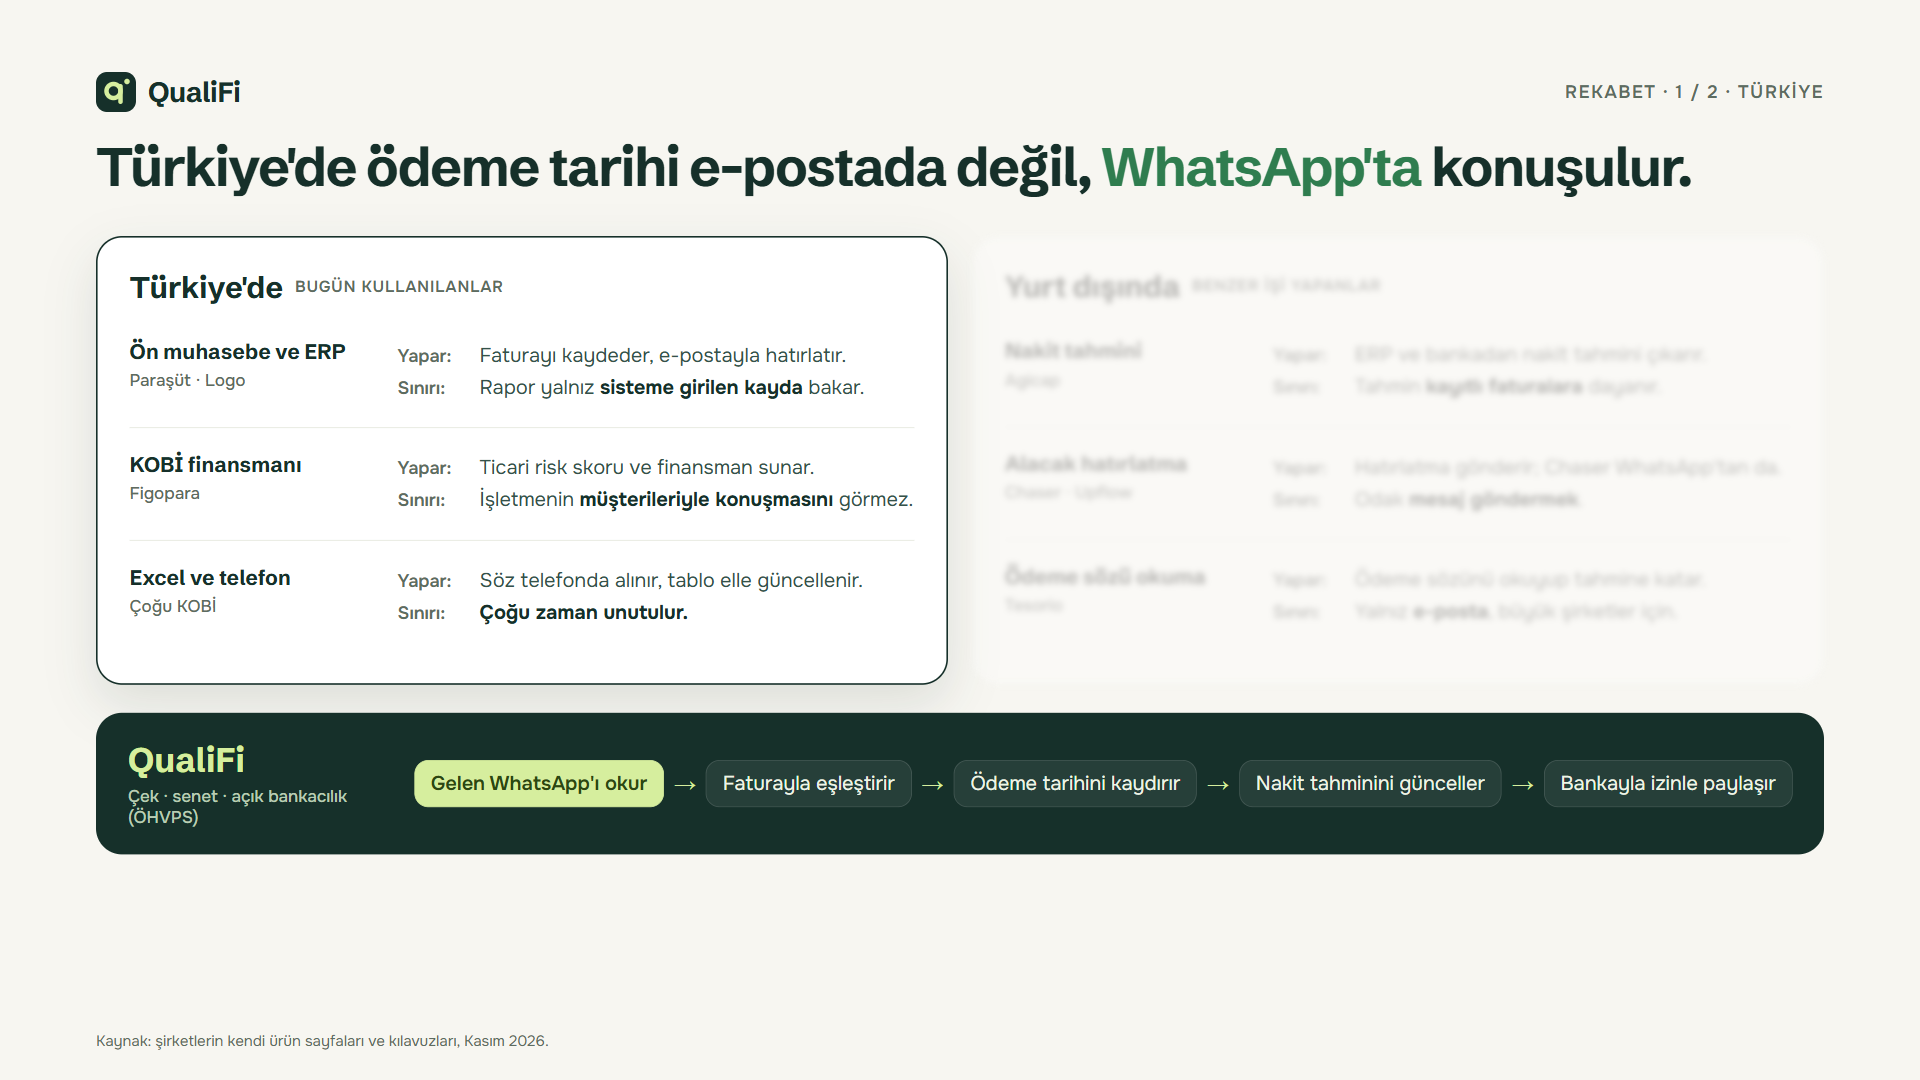
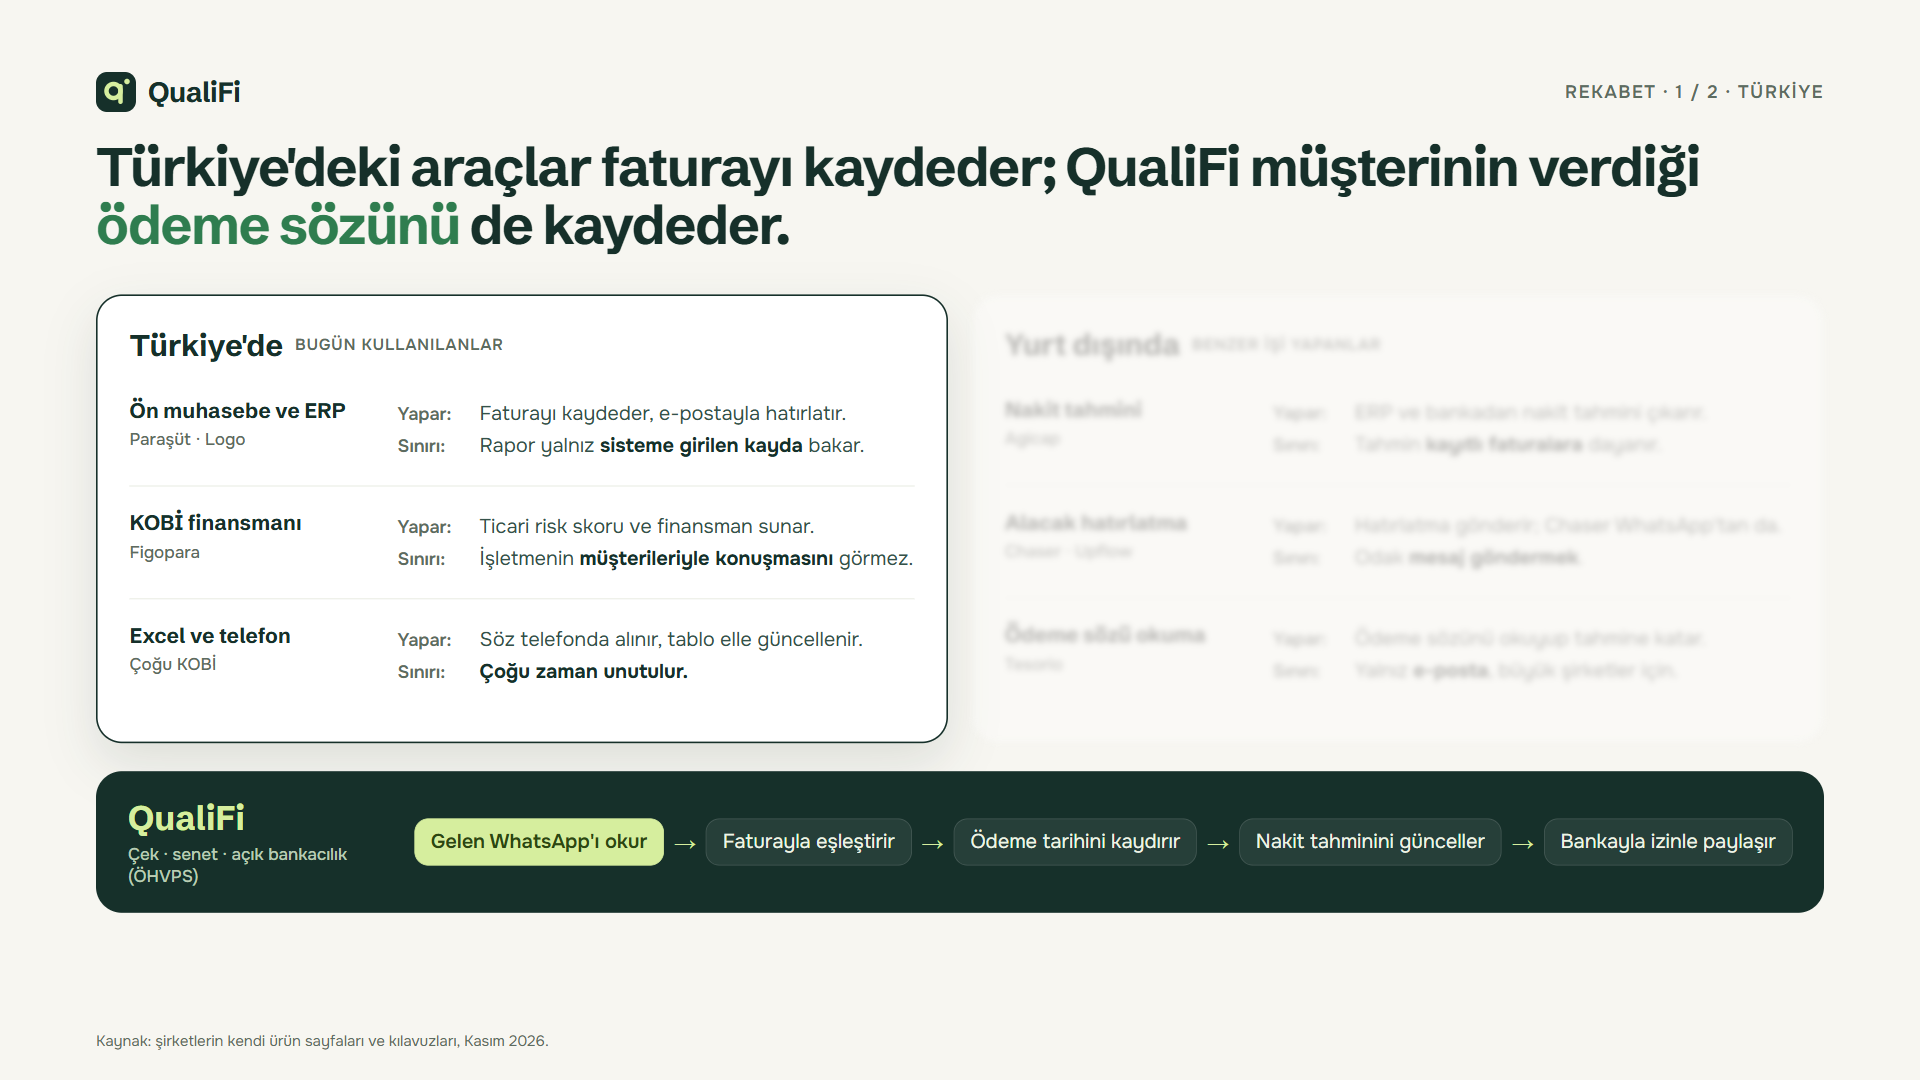
Presentation: own differentiation headline on Türkiye and abroad competition pages

diff --git a/marketing/presentation-2026-11-24/paketler/rekabet.html b/marketing/presentation-2026-11-24/paketler/rekabet.html
@@ -132,7 +132,7 @@ h1 em { font-style: normal; color: var(--green); }
     <div class="logo"><svg width="40" height="40" viewBox="0 0 40 40"><rect width="40" height="40" rx="11" fill="#16302a"/><circle cx="17.5" cy="19" r="7" fill="none" stroke="#d6ee9e" stroke-width="4.5"/><rect x="22.25" y="12" width="4.5" height="20" rx="2.25" fill="#d6ee9e"/><circle cx="31" cy="9.5" r="2.75" fill="#d6ee9e"/></svg>QualiFi</div>
     <span class="eyebrow">Rekabet · 1 / 2 · Türkiye</span>
   </div>
-  <h1>Türkiye'de ödeme tarihi e-postada değil, <em>WhatsApp'ta</em> konuşulur.</h1>
+  <h1>Türkiye'deki araçlar faturayı kaydeder; QualiFi müşterinin verdiği <em>ödeme sözünü</em> de kaydeder.</h1>
   <div class="markets" data-focus="tr">
     <div class="market">
       <h2>Türkiye'de <span>Bugün kullanılanlar</span></h2>
@@ -184,7 +184,7 @@ h1 em { font-style: normal; color: var(--green); }
     <div class="logo"><svg width="40" height="40" viewBox="0 0 40 40"><rect width="40" height="40" rx="11" fill="#16302a"/><circle cx="17.5" cy="19" r="7" fill="none" stroke="#d6ee9e" stroke-width="4.5"/><rect x="22.25" y="12" width="4.5" height="20" rx="2.25" fill="#d6ee9e"/><circle cx="31" cy="9.5" r="2.75" fill="#d6ee9e"/></svg>QualiFi</div>
     <span class="eyebrow">Rekabet · 2 / 2 · Yurt dışı</span>
   </div>
-  <h1>Türkiye'de ödeme tarihi e-postada değil, <em>WhatsApp'ta</em> konuşulur.</h1>
+  <h1>Yurt dışındakiler kendi pazarına göre kurulu; QualiFi <em>çek, senet ve açık bankacılık</em> için kuruldu.</h1>
   <div class="markets" data-focus="world">
     <div class="market">
       <h2>Türkiye'de <span>Bugün kullanılanlar</span></h2>
